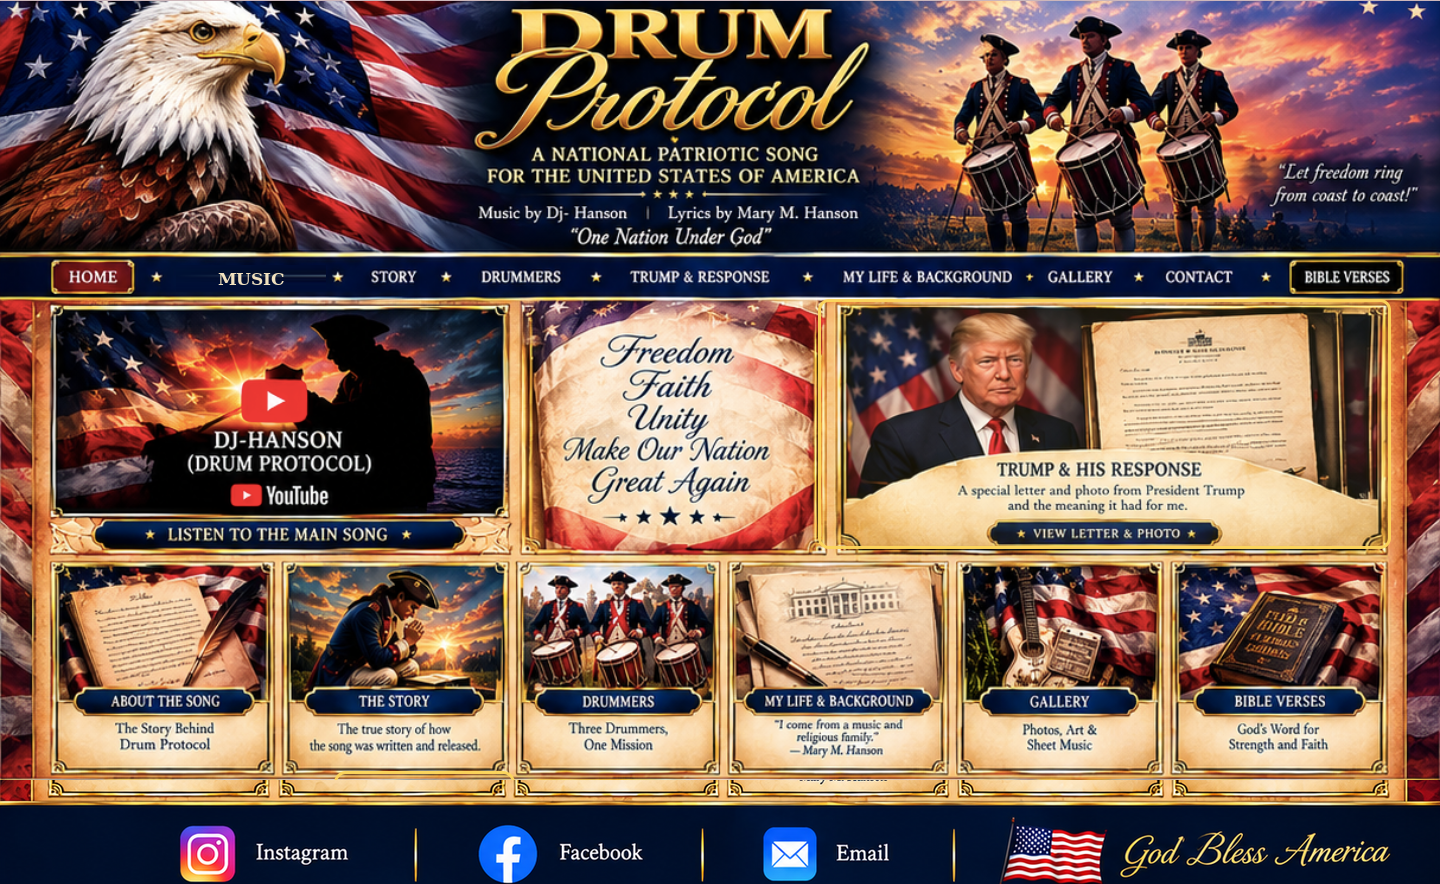
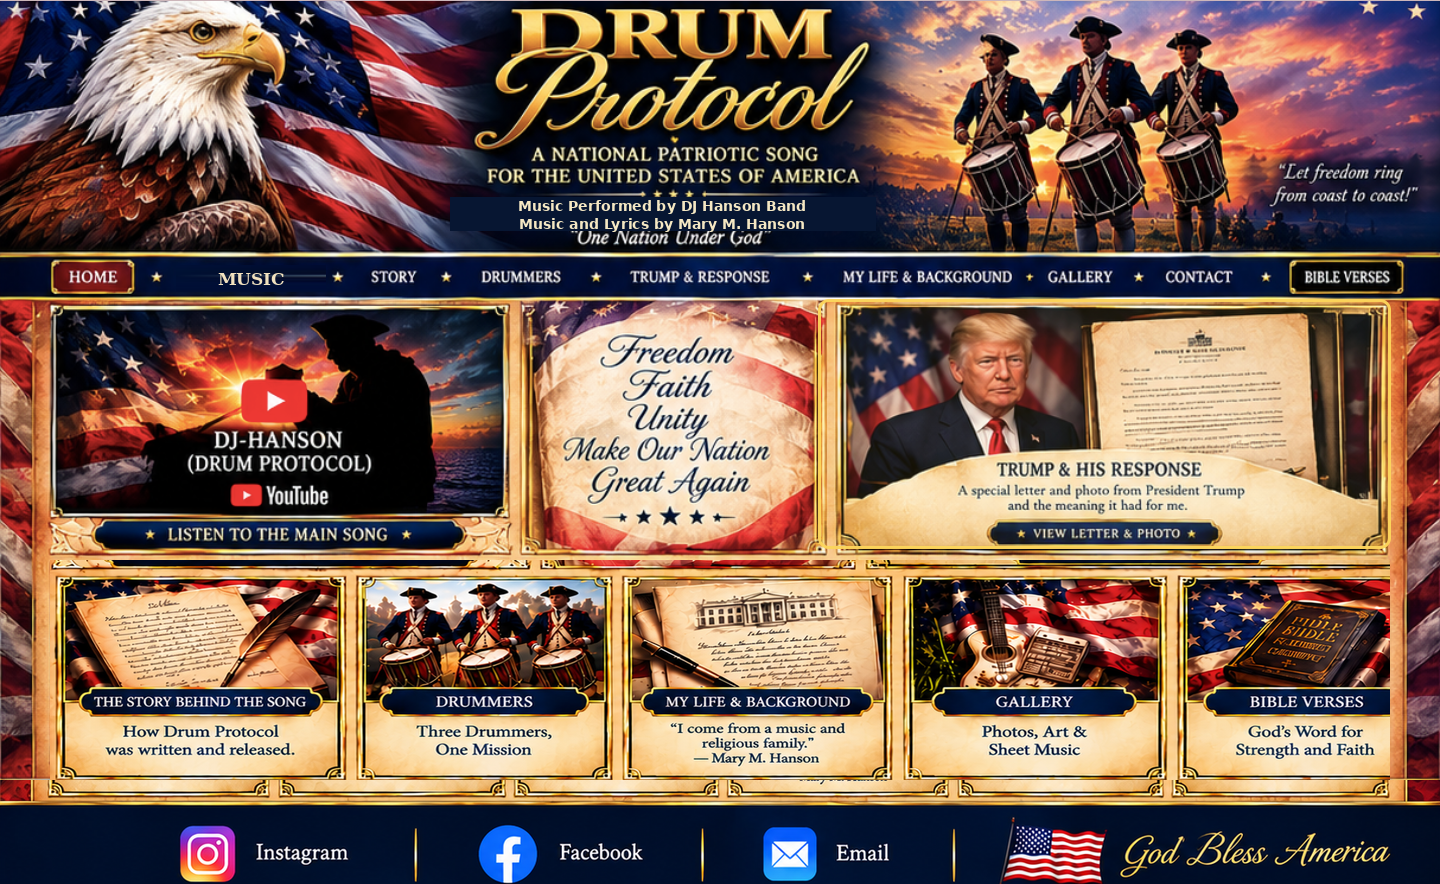
Add files via upload

Changed region(s): [[0.0312, 0.6109, 0.9688, 0.8857], [0.3125, 0.2138, 0.5938, 0.2749]]

diff --git a/about.html b/about.html
@@ -1,71 +1,43 @@
-<!doctype html>
-<html lang="en">
-<head>
-<meta charset="utf-8">
+<!doctype html><html><head><meta charset="utf-8">
 <meta name="viewport" content="width=device-width,initial-scale=1">
-<title>About the Song | Drum Protocol</title>
+<title>The Story Behind the Song — Drum Protocol</title>
 <style>
-*{box-sizing:border-box}
-html,body{margin:0;background:#6d4b18}
-body{font-family:Georgia,"Times New Roman",serif;color:#171008;padding:28px}
-.page{
- max-width:1050px;margin:auto;padding:62px 78px;
- background:linear-gradient(90deg,#c99e4f 0,#ecd18d 5%,#f2dda8 50%,#ecd18d 95%,#c99e4f 100%);
- border-left:8px double #5b3b12;border-right:8px double #5b3b12;
- box-shadow:0 8px 35px #0007;
- font-size:clamp(20px,2vw,27px);line-height:1.62;
-}
-h1{text-align:center;color:#5b3910;font-size:clamp(42px,6vw,70px);margin:0 0 35px}
-.date{margin-bottom:20px}
-p{margin:0 0 25px}
-.prayer{
- margin:42px auto;padding:32px 38px;max-width:800px;
- border:4px double #8a5b18;background:#f4e4b8;text-align:center;
-}
-.prayer h2{margin:0 0 22px;color:#5b3910;font-size:36px}
-.signature{text-align:right;font-size:34px;font-style:italic;margin-top:28px}
-.nav{text-align:center;margin-top:45px}
-.nav a{display:inline-block;padding:11px 20px;margin:5px;background:#10274a;color:#f3d77f;border:2px solid #7c5318;text-decoration:none;font-size:17px}
-@media(max-width:700px){body{padding:8px}.page{padding:38px 22px}.prayer{padding:25px 16px}}
-</style>
-</head>
-<body>
-<main class="page">
-<h1>About the Song</h1>
-<div class="date">September 11, 2026</div>
+body{margin:0;background:#061b3a;font-family:Georgia,serif;color:#172b4d}
+nav{background:#071d3d;border-bottom:3px solid #c9972b;padding:14px;text-align:center}
+nav a{color:#f7df9b;text-decoration:none;margin:0 14px;font-weight:bold}
+.page{max-width:1050px;margin:24px auto;padding:18px}
+.banner{background:linear-gradient(90deg,#071d3d,#8d1c20,#071d3d);color:#f6d98b;
+border:4px solid #c9972b;padding:22px;text-align:center}
+.banner h1{margin:0;font-size:42px}.banner p{margin:8px 0 0;color:white}
+.paper{margin-top:18px;background:#f3dfad;border:8px double #b77b19;
+box-shadow:0 8px 28px #0008;padding:46px 58px;line-height:1.55;font-size:18px}
+.paper h2{text-align:center;font-size:34px;color:#6d4510;margin-top:0}
+.prayer{margin:28px auto;padding:22px;border:2px solid #b77b19;max-width:700px;text-align:center}
+.sign{text-align:right;font-style:italic;font-size:20px}
+@media(max-width:700px){.paper{padding:28px 22px}.paper h2{font-size:28px}nav a{display:inline-block;margin:6px}}
+</style></head><body>
+<nav><a href="index.html">Home</a><a href="Drum-Protocol-Sheet-Music.pdf">Music</a><a href="about.html">The Story</a>
+<a href="drummers.html">Drummers</a><a href="trump-response.html">Trump &amp; Response</a>
+<a href="life-background.html">My Life &amp; Background</a><a href="gallery.html">Gallery</a>
+<a href="bible-verses.html">Bible Verses</a><a href="contact.html">Contact</a></nav>
+<div class="page">
+<div class="banner"><h1>DRUM PROTOCOL</h1><p>A National Patriotic Song for the United States of America</p>
+<p>September 11, 2001 — We Will Never Forget</p></div>
+<article class="paper"><h2>The Story Behind the Song</h2>
+<p>September 11, 2026</p>
 <p>Dear Fellow Americans,</p>
-
 <p>Drum Protocol is a national patriotic song written for the citizens of the United States of America. I composed the music in honor of my son who is a world-class drummer. The lyrics were written to honor the veterans of the United States of America.</p>
-
 <p>Drum Protocol was copyrighted at the turn of the century on December 29, 2000. It all came together around the time the twin towers at the New York Trade Center fell on September 11, 2001.</p>
-
 <p>I expected the recording my friends and family made of Drum Protocol to be produced back then. But God said, “LET IT SIT.” So the song sat. And it did so for the next 25 years, 5 months, and 30 days. When the Lord introduced the MP3 software to me, He then said, “PUBLISH IT!”</p>
-
 <p>The track “DJ-HANSON (DRUM PROTOCOL)” on YouTube was released to the public on June 28, 2026 by artists M.A.D., right in time to celebrate America’s 250th Fourth of July birthday celebration, 2026!</p>
-
 <p>The Puritans and the early American Revolutionaries practiced the active Christian virtues of energy, force, and perseverance when standing up for our freedom, which we all still enjoy today. That helped America grow into a great nation.</p>
-
 <p>If they could make our country great, we can use the same Christian principles to keep it that way. Our American Founding Fathers believed in the Bible and studied it. They knew how to stand on the power and faith of the Word of God. They also knew how to pray. Since they did, we can too. This short, quick prayer brings release every single time when said with a strong and grateful heart.</p>
-
-<section class="prayer">
-<h2>A Prayer for America</h2>
+<div class="prayer"><h3>A Prayer for America</h3>
 <p>Our dear Heavenly Father,</p>
 <p>I raise my hands to Heaven, O Lord, in honor of<br>
 Your name, for power to stand against the evil,<br>
 and strength to cure the pain.</p>
-<p>In Jesus’ name, Amen.</p>
-</section>
-
-<p>May God Bless America!</p>
-<p>Thank-you.</p>
-<div class="signature">Sincerely,<br>Mary M. Hanson</div>
-
-<div class="nav">
-<a href="index.html">Home</a>
-<a href="story.html">Story</a>
-<a href="bible-verses.html">Bible Verses</a>
-<a href="contact.html">Contact</a>
-</div>
-</main>
-</body>
-</html>
+<p>In Jesus’ name, Amen.</p></div>
+<p>May God Bless America!</p><p>Thank-you.</p>
+<p class="sign">Sincerely,<br>Mary M. Hanson</p>
+</article></div></body></html>

diff --git a/index.html b/index.html
@@ -22,7 +22,7 @@ html,body{margin:0;background:#071b39}
 
 </head><body><div class="wrap">
 <img src="Drum-Protocol-Clean-Homepage.png" alt="Drum Protocol">
-<a class="hot" href="index.html" aria-label="home" style="left:3.5417%;top:31.4951%;width:5.8333%;height:4.9020%"></a><a class="hot" href="Drum-Protocol-Sheet-Music.pdf" target="_blank" aria-label="music" style="left:12.2222%;top:31.4951%;width:10.6250%;height:4.9020%"></a><a class="hot" href="story.html" aria-label="storynav" style="left:25.2778%;top:31.4951%;width:4.5833%;height:4.9020%"></a><a class="hot" href="drummers.html" aria-label="drumnav" style="left:32.7083%;top:31.4951%;width:7.3611%;height:4.9020%"></a><a class="hot" href="trump-response.html" aria-label="trumpnav" style="left:42.9861%;top:31.4951%;width:11.0417%;height:4.9020%"></a><a class="hot" href="life-background.html" aria-label="lifenav" style="left:57.2917%;top:31.4951%;width:14.0972%;height:4.9020%"></a><a class="hot" href="gallery.html" aria-label="galnav" style="left:72.2222%;top:31.4951%;width:6.6667%;height:4.9020%"></a><a class="hot" href="contact.html" aria-label="contactnav" style="left:79.8611%;top:31.4951%;width:7.5000%;height:4.9020%"></a><a class="hot" href="bible-verses.html" aria-label="biblenav" style="left:89.1667%;top:31.4951%;width:8.4028%;height:4.9020%"></a><a class="hot" href="https://www.youtube.com/watch?v=4VN73PMejGE" target="_blank" aria-label="song" style="left:3.4722%;top:37.5000%;width:31.8750%;height:29.9020%"></a><a class="hot" href="trump-response.html" aria-label="trump" style="left:57.9861%;top:37.5000%;width:38.5417%;height:29.9020%"></a><a class="hot" href="about.html" aria-label="about" style="left:3.5417%;top:68.6275%;width:15.4861%;height:26.4706%"></a><a class="hot" href="story.html" aria-label="story" style="left:19.7917%;top:68.6275%;width:15.4167%;height:26.4706%"></a><a class="hot" href="drummers.html" aria-label="drummers" style="left:35.9722%;top:68.6275%;width:13.9583%;height:26.4706%"></a><a class="hot" href="life-background.html" aria-label="life" style="left:50.6250%;top:68.6275%;width:15.1389%;height:26.4706%"></a><a class="hot" href="gallery.html" aria-label="gallery" style="left:66.5278%;top:68.6275%;width:14.2361%;height:26.4706%"></a><a class="hot" href="bible-verses.html" aria-label="bible" style="left:81.5278%;top:68.6275%;width:15.0694%;height:26.4706%"></a>
+<a class="hot" href="index.html" aria-label="home" style="left:3.5417%;top:31.4951%;width:5.8333%;height:4.9020%"></a><a class="hot" href="Drum-Protocol-Sheet-Music.pdf" target="_blank" aria-label="music" style="left:12.2222%;top:31.4951%;width:10.6250%;height:4.9020%"></a><a class="hot" href="about.html" aria-label="storynav" style="left:25.2778%;top:31.4951%;width:4.5833%;height:4.9020%"></a><a class="hot" href="drummers.html" aria-label="drumnav" style="left:32.7083%;top:31.4951%;width:7.3611%;height:4.9020%"></a><a class="hot" href="trump-response.html" aria-label="trumpnav" style="left:42.9861%;top:31.4951%;width:11.0417%;height:4.9020%"></a><a class="hot" href="life-background.html" aria-label="lifenav" style="left:57.2917%;top:31.4951%;width:14.0972%;height:4.9020%"></a><a class="hot" href="gallery.html" aria-label="galnav" style="left:72.2222%;top:31.4951%;width:6.6667%;height:4.9020%"></a><a class="hot" href="contact.html" aria-label="contactnav" style="left:79.8611%;top:31.4951%;width:7.5000%;height:4.9020%"></a><a class="hot" href="bible-verses.html" aria-label="biblenav" style="left:89.1667%;top:31.4951%;width:8.4028%;height:4.9020%"></a><a class="hot" href="https://www.youtube.com/watch?v=4VN73PMejGE" target="_blank" aria-label="song" style="left:3.4722%;top:37.5000%;width:31.8750%;height:29.9020%"></a><a class="hot" href="trump-response.html" aria-label="trump" style="left:57.9861%;top:37.5000%;width:38.5417%;height:29.9020%"></a><a class="hot" href="about.html" aria-label="about" style="left:3.5%;top:68.0%;width:18.0%;height:27.0%"></a><a class="hot" href="drummers.html" aria-label="drummers" style="left:22.5%;top:68.0%;width:18.0%;height:27.0%"></a><a class="hot" href="life-background.html" aria-label="life" style="left:41.5%;top:68.0%;width:18.0%;height:27.0%"></a><a class="hot" href="gallery.html" aria-label="gallery" style="left:60.5%;top:68.0%;width:18.0%;height:27.0%"></a><a class="hot" href="bible-verses.html" aria-label="bible" style="left:79.5%;top:68.0%;width:17.0%;height:27.0%"></a>
 
 <a class="hp-social-link hp-instagram" href="https://www.instagram.com/maryhanson711_/" target="_blank" rel="noopener noreferrer" aria-label="Instagram"></a>
 <a class="hp-social-link hp-facebook" href="https://www.facebook.com/profile.php?id=61592048799260" target="_blank" rel="noopener noreferrer" aria-label="Facebook"></a>

diff --git a/contact.html b/contact.html
@@ -1,31 +1,21 @@
-<!doctype html>
-<html lang="en">
-<head>
-<meta charset="utf-8">
+<!doctype html><html><head><meta charset="utf-8">
 <meta name="viewport" content="width=device-width,initial-scale=1">
-<title>Contact | Drum Protocol</title>
+<title>Contact — Drum Protocol</title>
 <style>
-*{box-sizing:border-box}
-body{margin:0;padding:28px;background:#071427;font-family:Georgia,"Times New Roman",serif}
-main{max-width:950px;margin:auto;padding:55px 40px;background:#ead08d;border:8px double #805719;text-align:center;color:#2b1b09}
-h1{font-size:58px;margin:0 0 15px;color:#56370e}
-p{font-size:23px}
-.links{display:flex;gap:24px;justify-content:center;flex-wrap:wrap;margin:45px 0}
-.links a{display:block;width:250px;padding:28px 15px;background:#10274a;color:#f7dd86;border:3px double #c99b3c;text-decoration:none;font-size:25px;font-weight:bold}
-.links a small{display:block;color:white;font-size:15px;margin-top:10px;font-weight:normal}
-.home{color:#10274a;font-weight:bold;font-size:18px}
-</style>
-</head>
-<body>
-<main>
-<h1>Contact</h1>
-<p>Choose a link below to visit the social media page or send an email.</p>
-<div class="links">
-<a href="https://www.facebook.com/profile.php?id=61592048799260">Facebook<small>Open Facebook page</small></a>
-<a href="https://www.instagram.com/maryhanson711_/">Instagram<small>@maryhanson711_</small></a>
-<a href="mailto:djhanson711@gmail.com">Email<small>djhanson711@gmail.com</small></a>
-</div>
-<a class="home" href="index.html">Return to Home</a>
-</main>
-</body>
-</html>
+html,body{margin:0;background:#061b3a}.wrap{position:relative;max-width:1536px;margin:auto}
+img{display:block;width:100%;height:auto}.hot{position:absolute;display:block}
+</style></head><body><div class="wrap">
+<img src="Contact-Fancy.png" alt="Drum Protocol Contact">
+<a class="hot" href="index.html" style="left:1%;top:0%;width:10%;height:6%" aria-label="Home"></a>
+<a class="hot" href="drummers.html" style="left:14%;top:0%;width:11%;height:6%" aria-label="Drummers"></a>
+<a class="hot" href="trump-response.html" style="left:29%;top:0%;width:14%;height:6%" aria-label="Trump and Response"></a>
+<a class="hot" href="life-background.html" style="left:47%;top:0%;width:17%;height:6%" aria-label="My Life and Background"></a>
+<a class="hot" href="gallery.html" style="left:66%;top:0%;width:10%;height:6%" aria-label="Gallery"></a>
+<a class="hot" href="bible-verses.html" style="left:77%;top:0%;width:12%;height:6%" aria-label="Bible Verses"></a>
+<a class="hot" href="https://www.facebook.com/profile.php?id=61592048799260" target="_blank"
+style="left:25%;top:50%;width:15%;height:22%" aria-label="Facebook"></a>
+<a class="hot" href="https://www.instagram.com/maryhanson711_/?hl=en" target="_blank"
+style="left:42%;top:50%;width:15%;height:22%" aria-label="Instagram"></a>
+<a class="hot" href="mailto:DJhanson711@gmail.com"
+style="left:59%;top:50%;width:15%;height:22%" aria-label="Email"></a>
+</div></body></html>

diff --git a/bible-verses.html b/bible-verses.html
@@ -32,9 +32,10 @@ h1{text-align:center;font-style:italic;font-size:46px;margin:0 0 8px}
 <div class="content">
 <div class="prayer"><img src="Revolutionary-Prayer.png" alt="Revolutionary prayer artwork"></div>
 <div class="verses">
-<p class="verse"><span class="ref">Psalm 63:14</span>“So I will bless You while I live; I will lift up my hands in Your name.”</p>
-<p class="verse"><span class="ref">Psalm 17:17</span>“Show Your marvelous lovingkindness, O You who save by Your right hand those who trust in You from their enemies.”</p>
-<p class="verse"><span class="ref">1 Kings 8:22-23</span>“Then Solomon stood before the altar of the Lord, with his hands spread toward heaven, and said...”</p>
+
+<p class="verse"><span class="ref">Psalm 63:4</span>Thus will I bless thee while I live: I will lift up my hands in thy name.</p>
+<p class="verse"><span class="ref">Psalm 7:17</span>I will praise the Lord according to his righteousness: and I will sing praise to the name of the Lord Most High.</p>
+<p class="verse"><span class="ref">Psalm 65:2</span>O thou that puriest prayer: until thee shall all flesh come.</p>
 </div>
 </div>
 <div class="back"><a href="index.html">Return to Home</a></div>

diff --git a/life-background.html b/life-background.html
@@ -89,7 +89,7 @@ h1{
   <main class="page">
     <h1>My Life &amp; Background</h1>
     <div class="copy">
-      I come from a music and religious family.<br><br>
+      I come from a musical and religious family.<br><br>
       Music and faith have both been important parts of my life and helped shape the way I understand the purpose and message of <em>Drum Protocol</em>.
     </div>
     <div class="signature">— Mary M. Hanson</div>
